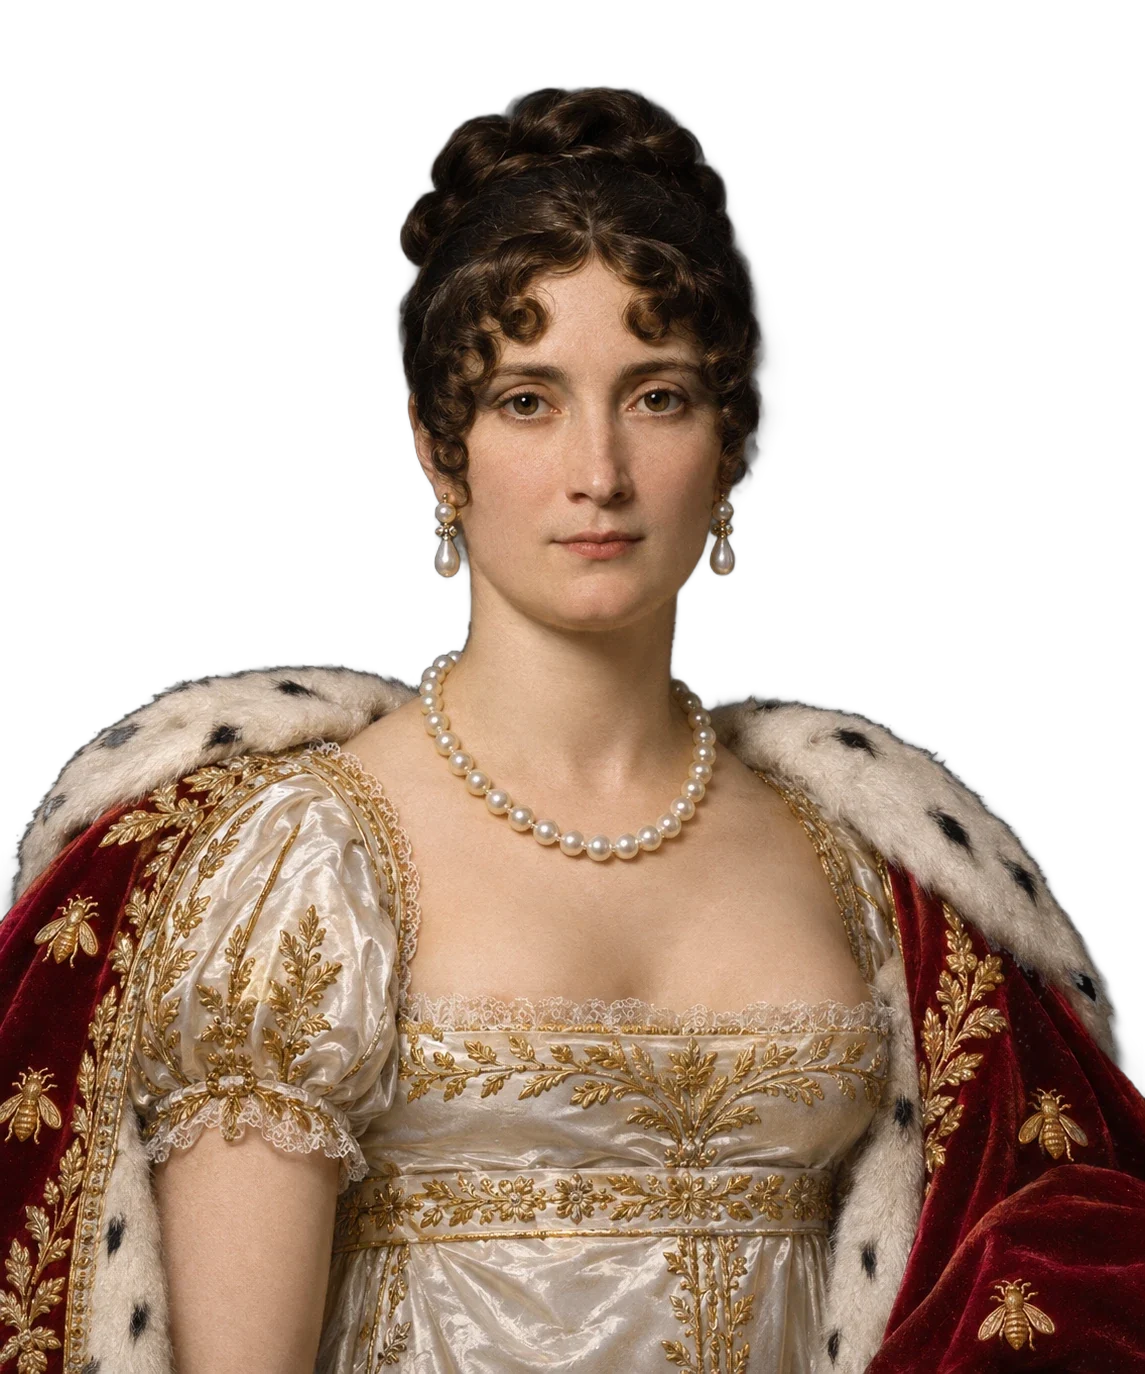
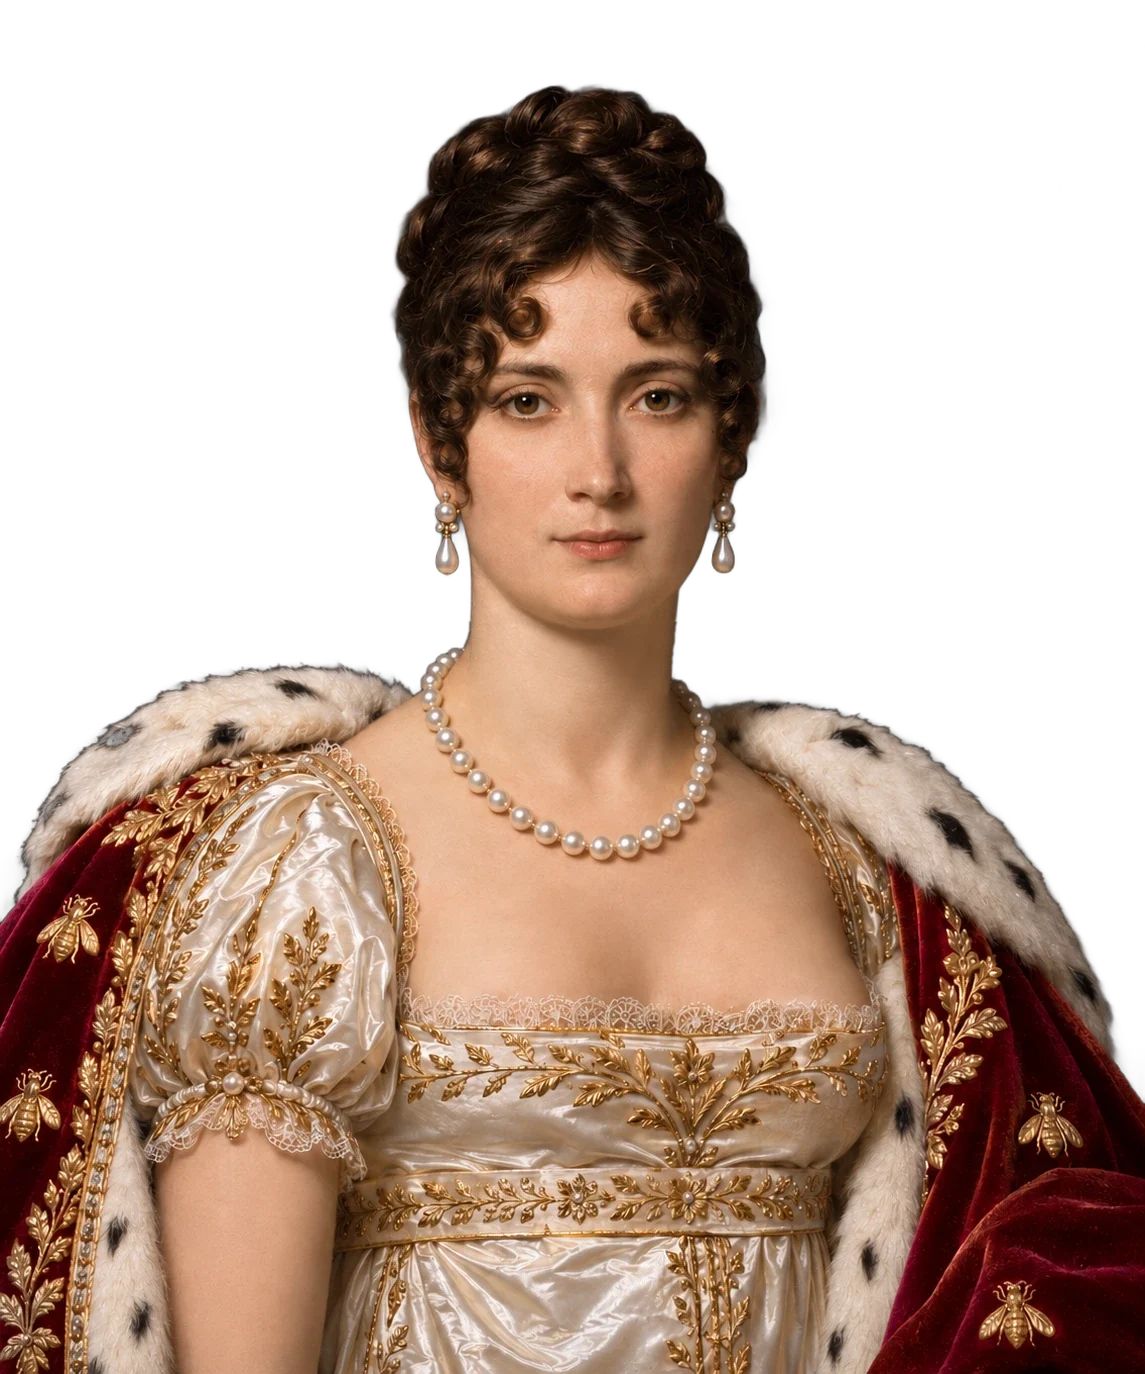
Grotte Napoléon : un diadème se pose dans la coiffure de Joséphine
Claude-Session: https://claude.ai/code/session_01Tg9JuPFfiTJrQ2axzwAjp1

diff --git a/clients/la-grotte-napoleon/reserver.html b/clients/la-grotte-napoleon/reserver.html
@@ -8,7 +8,7 @@
 <meta name="robots" content="noindex">
 <meta name="theme-color" content="#161411">
 <link rel="icon" href="images/couronne.png">
-<link rel="stylesheet" href="grotte.css?v=20261102t">
+<link rel="stylesheet" href="grotte.css?v=20261102u">
 </head>
 <body class="btq resa-ouv" data-titre="meta-reserver">
 <div class="maquette" data-t="bandeau">Maquette préparée par Saitora pour La Grotte Napoléon : à valider ensemble avant la mise en ligne.</div>
@@ -49,7 +49,7 @@
 </div>
 
 <main id="haut">
-  <!-- l'ouverture : la couronne d'impératrice se pose d'elle-même sur Joséphine en habit du sacre (même animation que la couronne de laurier de la boutique), puis la phrase et le bouton arrivent -->
+  <!-- l'ouverture : le diadème se pose de lui-même sur Joséphine en habit du sacre (même animation que la couronne de laurier de la boutique), puis la phrase et le bouton arrivent -->
   <section class="chapeau" id="chapeau" aria-labelledby="t-titre">
     <div class="scene">
       <div class="ouverture-texte">
@@ -59,7 +59,7 @@
           <div class="actions" id="boutonsOuv" style="--i:1"><a class="btn lg" href="#resa" data-t="rj-choisir">Choisir sa séance</a></div>
         </div>
       </div>
-      <div class="portrait josephine"><img src="images/josephine.webp" alt="L’impératrice Joséphine en habit du sacre" width="1145" height="1374" fetchpriority="high" data-t-alt="rj-alt"><img class="bicorne arriere" src="images/couronne-josephine-arriere.webp" alt="" width="720" height="577"><img class="ombre-chapeau" id="ombreChapeau" src="images/couronne-josephine-ombre.webp" alt="" width="351" height="228"><img class="bicorne" id="bicorne" src="images/couronne-josephine-avant.webp" alt="" width="720" height="577"></div>
+      <div class="portrait josephine"><img src="images/josephine.webp" alt="L’impératrice Joséphine en habit du sacre" width="1145" height="1374" fetchpriority="high" data-t-alt="rj-alt"><img class="bicorne arriere" src="images/diademe-arriere.webp" alt="" width="720" height="439"><img class="ombre-chapeau" id="ombreChapeau" src="images/diademe-ombre.webp" alt="" width="325" height="204"><img class="bicorne" id="bicorne" src="images/diademe-avant.webp" alt="" width="720" height="439"></div>
     </div>
   </section>
   <!-- la réservation en quatre étapes numérotées ; à côté, le billet sur parchemin se remplit à mesure (sur téléphone : après le formulaire, avec une barre du total en bas) -->
@@ -106,7 +106,7 @@
   <a href="./#venir" data-t="barre-plan">Plan</a>
 </div>
 
-<script src="textes.js?v=20261102t"></script>
-<script src="grotte.js?v=20261102t"></script>
+<script src="textes.js?v=20261102u"></script>
+<script src="grotte.js?v=20261102u"></script>
 </body>
 </html>

diff --git a/clients/la-grotte-napoleon/grotte.css b/clients/la-grotte-napoleon/grotte.css
@@ -492,14 +492,14 @@ body[data-titre="meta-reserver"]{--barre:0px}
 .portrait.sacre .bicorne.arriere{z-index:0}
 .portrait.sacre .ombre-chapeau{z-index:2}
 .portrait.sacre .ombre-chapeau{left:37%;width:26%;top:13.5%;height:5.5%}
-/* la page Réserver : la couronne d'impératrice se pose dans la coiffure de Joséphine (images/josephine.webp, même cadre que napoleon.webp).
-   Trois couches qui bougent ensemble, comme le laurier de la boutique : la couronne entière derrière le portrait (couronne-josephine-arriere.webp :
-   le cercle du fond et les bouts du bandeau passent derrière la tête et les tempes, le chignon sort entre les arches), puis l'ombre qu'elle pose
-   sur les cheveux (couronne-josephine-ombre.webp, qui apparaît à l'arrivée), puis l'avant seul (couronne-josephine-avant.webp : bandeau, arches, perles) */
+/* la page Réserver : le diadème se pose dans la coiffure de Joséphine (images/josephine.webp, même cadre que napoleon.webp), comme le laurier
+   sur Napoléon à la boutique. Trois couches qui bougent ensemble : le diadème entier derrière le portrait (diademe-arriere.webp : ses deux bouts
+   passent derrière les cheveux, sur les côtés de la tête), l'ombre qu'il pose sur les boucles (diademe-ombre.webp, qui apparaît à l'arrivée),
+   puis l'avant seul (diademe-avant.webp : le bandeau, le fleuron et les perles, sans les bouts) */
 .portrait.josephine>img:first-child{position:relative;z-index:1}
-.portrait.josephine .bicorne{left:35.98%;top:1.892%;width:29.345%;z-index:3;transform-origin:50% 75%;filter:drop-shadow(0 6px 8px rgba(0,0,0,.35))}
+.portrait.josephine .bicorne{left:35.459%;top:8.37%;width:31.004%;z-index:3;transform-origin:50% 60%;filter:drop-shadow(0 5px 7px rgba(0,0,0,.35))}
 .portrait.josephine .bicorne.arriere{z-index:0;filter:none}
-.portrait.josephine .ombre-chapeau{z-index:2;left:35.284%;top:6.114%;width:30.655%;height:auto;border-radius:0;background:none}
+.portrait.josephine .ombre-chapeau{z-index:2;left:36.681%;top:8.224%;width:28.384%;height:auto;border-radius:0;background:none}
 .resa-ouv .page.resa{scroll-margin-top:80px}
 /* sur téléphone, la barre du total reste cachée tant que Joséphine occupe l'écran : elle ne couvre ni la phrase ni le bouton */
 .resa-barre{transition:transform .45s var(--doux)}

diff --git a/clients/la-grotte-napoleon/produit.html b/clients/la-grotte-napoleon/produit.html
@@ -8,7 +8,7 @@
 <meta name="robots" content="noindex">
 <meta name="theme-color" content="#161411">
 <link rel="icon" href="images/couronne.png">
-<link rel="stylesheet" href="grotte.css?v=20261102t">
+<link rel="stylesheet" href="grotte.css?v=20261102u">
 </head>
 <body data-titre="meta-produit">
 <div class="maquette" data-t="bandeau">Maquette préparée par Saitora pour La Grotte Napoléon : à valider ensemble avant la mise en ligne.</div>
@@ -89,8 +89,8 @@
   <a href="./#venir" data-t="barre-plan">Plan</a>
 </div>
 
-<script src="produits.js?v=20261102t"></script>
-<script src="textes.js?v=20261102t"></script>
-<script src="grotte.js?v=20261102t"></script>
+<script src="produits.js?v=20261102u"></script>
+<script src="textes.js?v=20261102u"></script>
+<script src="grotte.js?v=20261102u"></script>
 </body>
 </html>

diff --git a/clients/la-grotte-napoleon/panier.html b/clients/la-grotte-napoleon/panier.html
@@ -8,7 +8,7 @@
 <meta name="robots" content="noindex">
 <meta name="theme-color" content="#161411">
 <link rel="icon" href="images/couronne.png">
-<link rel="stylesheet" href="grotte.css?v=20261102t">
+<link rel="stylesheet" href="grotte.css?v=20261102u">
 </head>
 <body data-titre="meta-panier">
 <div class="maquette" data-t="bandeau">Maquette préparée par Saitora pour La Grotte Napoléon : à valider ensemble avant la mise en ligne.</div>
@@ -79,8 +79,8 @@
   <a href="./#venir" data-t="barre-plan">Plan</a>
 </div>
 
-<script src="produits.js?v=20261102t"></script>
-<script src="textes.js?v=20261102t"></script>
-<script src="grotte.js?v=20261102t"></script>
+<script src="produits.js?v=20261102u"></script>
+<script src="textes.js?v=20261102u"></script>
+<script src="grotte.js?v=20261102u"></script>
 </body>
 </html>

diff --git a/clients/la-grotte-napoleon/boutique.html b/clients/la-grotte-napoleon/boutique.html
@@ -8,7 +8,7 @@
 <meta name="robots" content="noindex">
 <meta name="theme-color" content="#161411">
 <link rel="icon" href="images/couronne.png">
-<link rel="stylesheet" href="grotte.css?v=20261102t">
+<link rel="stylesheet" href="grotte.css?v=20261102u">
 </head>
 <body class="btq" data-titre="meta-boutique">
 <div class="maquette" data-t="bandeau">Maquette préparée par Saitora pour La Grotte Napoléon : à valider ensemble avant la mise en ligne.</div>
@@ -270,8 +270,8 @@
 </div>
 
 
-<script src="produits.js?v=20261102t"></script>
-<script src="textes.js?v=20261102t"></script>
-<script src="grotte.js?v=20261102t"></script>
+<script src="produits.js?v=20261102u"></script>
+<script src="textes.js?v=20261102u"></script>
+<script src="grotte.js?v=20261102u"></script>
 </body>
 </html>

diff --git a/clients/la-grotte-napoleon/formules.html b/clients/la-grotte-napoleon/formules.html
@@ -8,7 +8,7 @@
 <meta name="robots" content="noindex">
 <meta name="theme-color" content="#161411">
 <link rel="icon" href="images/couronne.png">
-<link rel="stylesheet" href="grotte.css?v=20261102t">
+<link rel="stylesheet" href="grotte.css?v=20261102u">
 </head>
 <body data-titre="meta-formules">
 <div class="maquette" data-t="bandeau">Maquette préparée par Saitora pour La Grotte Napoléon : à valider ensemble avant la mise en ligne.</div>
@@ -146,7 +146,7 @@
 </div>
 
 
-<script src="textes.js?v=20261102t"></script>
-<script src="grotte.js?v=20261102t"></script>
+<script src="textes.js?v=20261102u"></script>
+<script src="grotte.js?v=20261102u"></script>
 </body>
 </html>

diff --git a/clients/la-grotte-napoleon/index.html b/clients/la-grotte-napoleon/index.html
@@ -8,7 +8,7 @@
 <meta name="robots" content="noindex">
 <meta name="theme-color" content="#161411">
 <link rel="icon" href="images/couronne.png">
-<link rel="stylesheet" href="grotte.css?v=20261102t">
+<link rel="stylesheet" href="grotte.css?v=20261102u">
 </head>
 <body data-titre="meta-titre">
 <div class="maquette" data-t="bandeau">Maquette préparée par Saitora pour La Grotte Napoléon : à valider ensemble avant la mise en ligne.</div>
@@ -204,7 +204,7 @@
 </div>
 
 
-<script src="textes.js?v=20261102t"></script>
-<script src="grotte.js?v=20261102t"></script>
+<script src="textes.js?v=20261102u"></script>
+<script src="grotte.js?v=20261102u"></script>
 </body>
 </html>

diff --git a/ETAT.md b/ETAT.md
@@ -22,7 +22,7 @@ Les pages du site sont à la racine (leur place donne leur adresse sur saitora.f
 
 - **13 démos** `demo-*.html`, chacune dans un genre différent (14 genres dans `commun/themes.json`, dessinés par `commun/themes.js`). La liste est dans `commun/demos.js` (partagée par l'accueil et `demos.html`) ; l'accueil n'en montre que trois (A Funtana, U Fucone, Atelier Bois Massif, liste `UNES`), avec « Voir les treize démos ».
 - **Sites clients** dans `clients/` (non indexés) :
-  - **La Grotte Napoléon** (`la-grotte-napoleon/`, site du père de l'utilisateur, **en ligne pour test** sur https://saitora.fr/clients/la-grotte-napoleon/ et en page privée Claude https://claude.ai/artifact/FUf2dVq3CJkFbwXnM9XknB, à republier après chaque changement). Accueil : Napoléon enfant qui devient l'Empereur (bouton « Découvrir »), séance, à table, enfance, film, formules en trois médaillons, avis, boutique, venir. Boutique avec la couronne de laurier, 20 souvenirs, fiches produits et panier (paiement pas encore branché). Réservation sur `reserver.html` avec un calendrier comme l'ancien site (places d'exemple). Six langues, la langue suit de page en page. Depuis le 31 octobre 2026 : page Formules avec les médaillons, frise des âges (9, 16, 24, 26, 30 et 35 ans, en très grand, qui comptent en arrivant) ; une lueur de chandelle et une carte interactive ont été essayées puis retirées ; nouvel enfant de l’ouverture calé au pixel sur l’Empereur. Du 1er au 2 novembre 2026 : menu réduit (Réserver, Boutique, Contact), page Réserver refaite (étapes I à IV, billet sur vieux papier avec cachet de cire), panier et fiches refaits, pied de page en 5 colonnes, l’Empereur reste en fond sur ordinateur ; section « La salle » en 3D (`salle.js`, WebGL écrit à la main) : maquette vue de dessus qu’on fait tourner, plan d’après les photos et la vidéo du restaurant (grande salle avec tables le long des murs, fauteuils de cinéma côté mur et chaises Napoléon dorées côté allée, arcade de roche, salle du fond avec deux tables rondes et un mannequin), 5 écrans à cadre doré qui passent le film (`salle.mp4`), **30 places exactement** (18 + 12) ; le 2 novembre, rendu rapproché des photos (roche noire, table ovale, assiettes, lampes crème et vertes ; puis éclaircie, sans halos, la lumière des écrans suit le film, et murs nus : plus de mannequin, d’appliques ni de rideaux ; disposition revue d’après la vidéo et les photos de l’utilisateur, gardées dans `images/salle-photo-*.webp` et `images/salle-visite.mp4` : parquet sombre, banquettes de cinéma derrière les tables collées au mur ; le 2 novembre au soir, tout est remis **à l’échelle en mètres** : écrans de 1,44 m sur des murs de 4 m, plafond à 2,6 m). **Tout le détail, les essais refusés et ce qui reste à valider avec le père : `clients/la-grotte-napoleon/NOTES.md`.** Le 2 novembre 2026 : la page Réserver s’ouvre sur Joséphine en habit du sacre, sa couronne d’impératrice se pose sur sa tête (même animation que la boutique).
+  - **La Grotte Napoléon** (`la-grotte-napoleon/`, site du père de l'utilisateur, **en ligne pour test** sur https://saitora.fr/clients/la-grotte-napoleon/ et en page privée Claude https://claude.ai/artifact/FUf2dVq3CJkFbwXnM9XknB, à republier après chaque changement). Accueil : Napoléon enfant qui devient l'Empereur (bouton « Découvrir »), séance, à table, enfance, film, formules en trois médaillons, avis, boutique, venir. Boutique avec la couronne de laurier, 20 souvenirs, fiches produits et panier (paiement pas encore branché). Réservation sur `reserver.html` avec un calendrier comme l'ancien site (places d'exemple). Six langues, la langue suit de page en page. Depuis le 31 octobre 2026 : page Formules avec les médaillons, frise des âges (9, 16, 24, 26, 30 et 35 ans, en très grand, qui comptent en arrivant) ; une lueur de chandelle et une carte interactive ont été essayées puis retirées ; nouvel enfant de l’ouverture calé au pixel sur l’Empereur. Du 1er au 2 novembre 2026 : menu réduit (Réserver, Boutique, Contact), page Réserver refaite (étapes I à IV, billet sur vieux papier avec cachet de cire), panier et fiches refaits, pied de page en 5 colonnes, l’Empereur reste en fond sur ordinateur ; section « La salle » en 3D (`salle.js`, WebGL écrit à la main) : maquette vue de dessus qu’on fait tourner, plan d’après les photos et la vidéo du restaurant (grande salle avec tables le long des murs, fauteuils de cinéma côté mur et chaises Napoléon dorées côté allée, arcade de roche, salle du fond avec deux tables rondes et un mannequin), 5 écrans à cadre doré qui passent le film (`salle.mp4`), **30 places exactement** (18 + 12) ; le 2 novembre, rendu rapproché des photos (roche noire, table ovale, assiettes, lampes crème et vertes ; puis éclaircie, sans halos, la lumière des écrans suit le film, et murs nus : plus de mannequin, d’appliques ni de rideaux ; disposition revue d’après la vidéo et les photos de l’utilisateur, gardées dans `images/salle-photo-*.webp` et `images/salle-visite.mp4` : parquet sombre, banquettes de cinéma derrière les tables collées au mur ; le 2 novembre au soir, tout est remis **à l’échelle en mètres** : écrans de 1,44 m sur des murs de 4 m, plafond à 2,6 m). **Tout le détail, les essais refusés et ce qui reste à valider avec le père : `clients/la-grotte-napoleon/NOTES.md`.** Le 2 novembre 2026 : la page Réserver s’ouvre sur Joséphine en habit du sacre, un diadème se pose dans sa coiffure (même principe que le laurier de la boutique).
   - **Mademoiselle Charlotte** (`mademoiselle-charlotte/`, **en ligne** sur https://saitora.fr/clients/mademoiselle-charlotte/) : créations brodées pour bébé, fiches produits, note de commande à coller sur sa boutique SumUp. Détail : `clients/mademoiselle-charlotte/NOTES.md`.
   - **Bobyshop** (`bobyshop/`, un ami qui a testé le devis) et **Vitrier Prince** (`vitrier-prince/`).
 - **Saitorapp** (`saitorapp/`, non indexée, **en ligne pour test** sur https://saitora.fr/saitorapp/) : une appli par site, faite pour son métier (boutique, institut / coiffeur, hébergement), que le commerçant installe sur son téléphone. Style des applis Fuse et Ro (Mobbin) ; le style Fitness d'Apple a été refusé. Fabriquée par `python3 outils/saitorapp.py` depuis `saitorapp/sites.json`. Démos : Mademoiselle Charlotte, A Funtana, U Fucone ; données dans le navigateur. Prochaine étape : Supabase (compte à créer par l'utilisateur), connexion par e-mail, notifications. Détail : `saitorapp/LISEZMOI.md`.

diff --git a/clients/la-grotte-napoleon/NOTES.md b/clients/la-grotte-napoleon/NOTES.md
@@ -87,3 +87,4 @@ Tout ce qui a été fait, décidé ou refusé sur ce site (repris de `ETAT.md` l
 - **La maquette remise à l’échelle, en mètres (2 novembre 2026, remarque de l’utilisateur : « les écrans sont bien trop petits, dans la petite pièce du fond ils prennent 80 % du mur »)** : la salle modélisée était bien plus grande que la vraie (salle du fond de 7,7 m de large). `salle.js` est maintenant **en mètres (une unité = un mètre)** : grande salle 4,4 × 5,6 m, salle du fond 4 × 3,6 m, plafond 2,6 m, arcade 2,2 m de large sous un linteau à 2,1 m ; écrans de 1,44 × 0,81 m (165 cm) centrés à 2 m ; tables de 0,70 × 1,20 m (1,80 m pour six), rondes d’un mètre, hauteur 0,75 m ; banquettes de 55 cm (assise à 45 cm, dossier à 1,05 m) ; chaises de 41 cm (assise 44 cm, dossier 1,04 m : leurs cotes, écrites à l’ancienne échelle, sont multipliées par `KX` = 1,15 en largeur et `KY` = 1,6 en hauteur) ; assiettes de 28 cm ; depuis le mur : banquette, table, chaises. Disposition inchangée (30 places). Caméra recentrée. Image de secours refaite. Pages en `grotte.js?v=20261102q`.
 - **La maquette agrandie pour qu’on respire (2 novembre 2026, demande de l’utilisateur : « même si en vrai c’est petit, on ne doit pas se sentir étouffer »)** : dans `salle.js`, deux facteurs `F = 1,35` (long et large) et `H = 1,2` (haut) agrandissent la salle, l’arcade, les écrans et les positions des tables ; le mobilier garde sa taille réelle, donc l’allée et les espaces entre tables s’élargissent. Grande salle ≈ 5,9 × 7,6 m, fond ≈ 5,4 × 4,9 m, plafond 3,1 m, écrans 1,94 × 1,09 m centrés à 2,4 m ; caméra reculée d’autant ; lampes et écrans portent un peu plus loin. Pour revenir aux cotes réelles : `F = 1, H = 1`. Image de secours refaite. Pages en `grotte.js?v=20261102r`.
 - **Joséphine couronnée en ouverture de la page Réserver (2 novembre 2026, idée de l’utilisateur)** : même ouverture que la boutique (`<section class="chapeau">`, corps `class="btq resa-ouv"`). Joséphine en habit du sacre (`images/josephine.webp`, faite par l’utilisateur avec ChatGPT dans le style des Napoléon du site) ; la couronne d’impératrice (`images/couronne-josephine.webp` : 4 arches, globe et croix, diamants, perles en poire ; une première version mate a été jugée « toute fade ») tombe en se balançant et se pose dans la coiffure (même animation que la couronne de laurier : `grotte.js` reconnaît `.portrait.sacre, .portrait.josephine`). Première version refusée (« juste un jpg sur un jpg ») : la couronne est maintenant en trois couches qui bougent ensemble : la couronne entière derrière le portrait (`couronne-josephine-arriere.webp` : le cercle du fond passe derrière le front, les bouts du bandeau derrière les tempes, le chignon sort entre les arches), l’ombre qu’elle pose sur les cheveux (`couronne-josephine-ombre.webp`, apparaît à l’arrivée), puis l’avant seul (`couronne-josephine-avant.webp` : bandeau, arches, perles, sans le cercle du fond ni les bouts). Titre « Une soirée / à la cour / de l’Empereur », phrase sur le 2 décembre 1804 (Napoléon couronne lui-même Joséphine) et bouton « Choisir sa séance » qui descend au formulaire (`#resa`) ; clés `rj-*` dans les six langues. Le titre de la réservation devient un `h2`. Sur téléphone, la barre du total reste cachée tant que Joséphine occupe l’écran. Idée restée en suspens : refaire tomber la couronne sur le billet quand la réservation est confirmée.
+- **Le diadème remplace la couronne (2 novembre 2026, avis de l’utilisateur : la couronne « mauvaise », même en trois couches)** : l’utilisateur a refait avec ChatGPT Joséphine tête nue (nouveau `images/josephine.webp`, coiffure un peu différente) et un diadème seul (or, fleuron au grand diamant, laurier et vigne, festons de diamants, perles en poire). Même principe que le laurier sur Napoléon : `diademe-arriere.webp` (le diadème entier) derrière le portrait, ses deux bouts passent derrière les cheveux sur les côtés ; `diademe-ombre.webp` sur les boucles à l’arrivée ; `diademe-avant.webp` (sans les bouts) devant. Réglages dans `.portrait.josephine .bicorne` (`grotte.css`). Les fichiers `couronne-josephine-*` sont supprimés (restent dans git).
